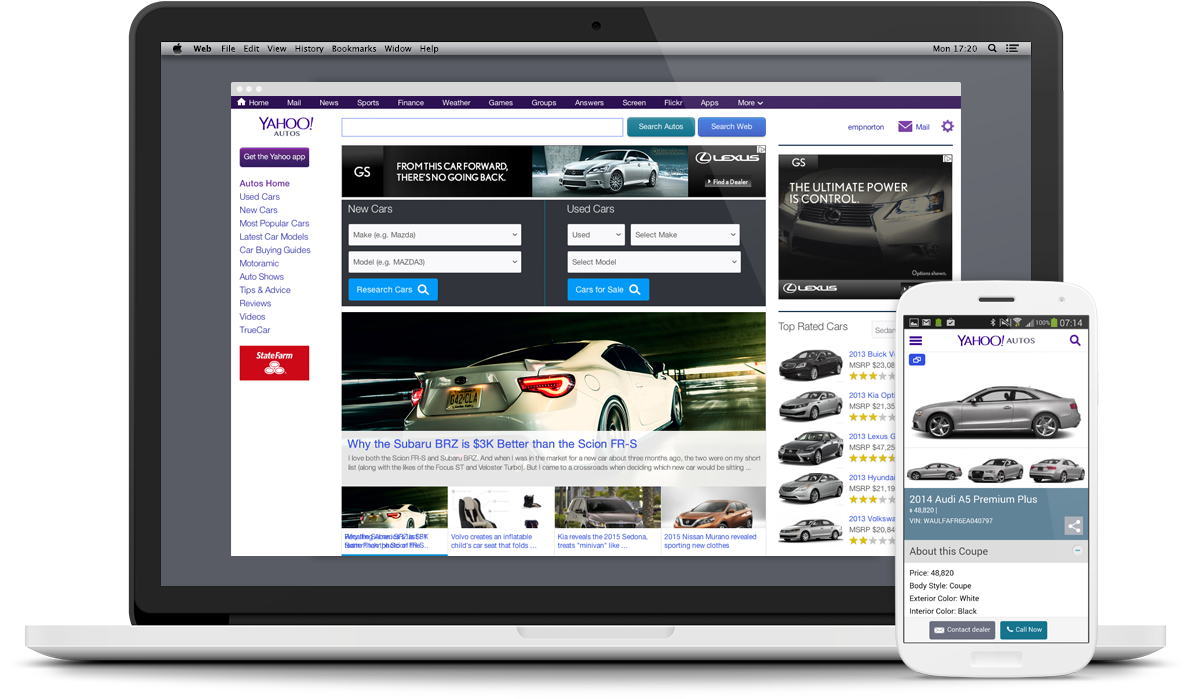
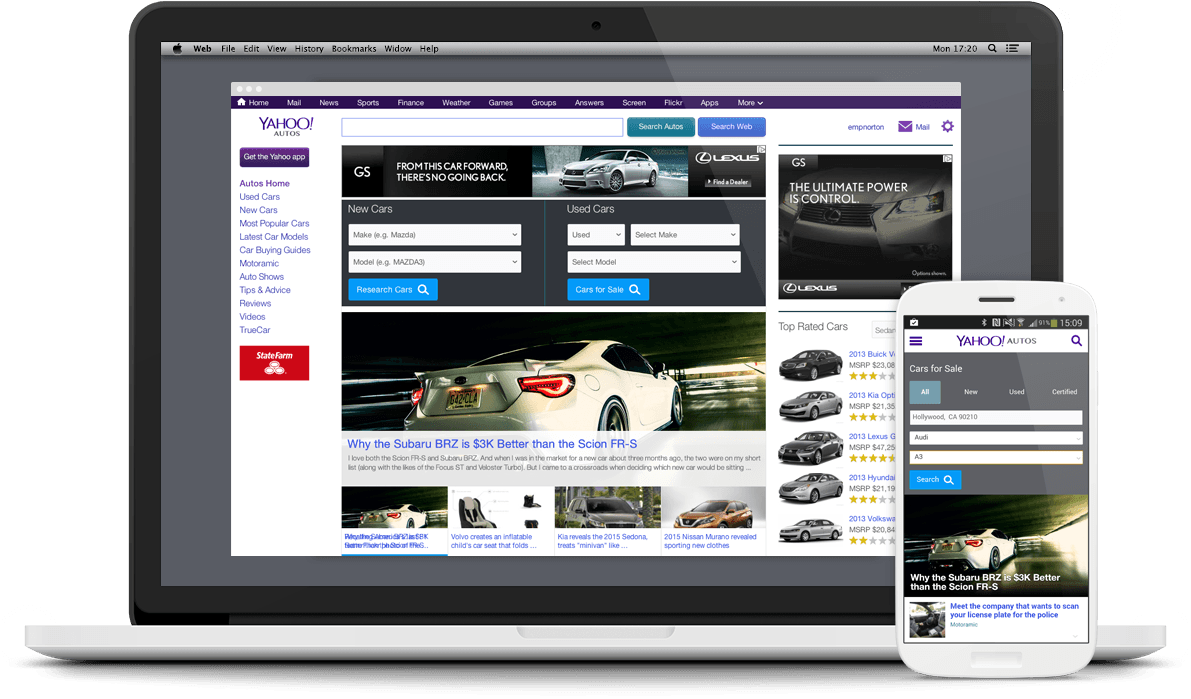
Autos Update
Tweaked the hero and added mobile screenshots

Changed region(s): [[0.7456, 0.4506, 0.932, 0.9313], [0.4349, 0.5408, 0.466, 0.5708], [0.3728, 0.5408, 0.4039, 0.5708]]

diff --git a/yahoo-autos.html b/yahoo-autos.html
@@ -84,7 +84,11 @@
 	<div class="row work"><!-- spacer -->
 		<div class="col-xs-12 spacer"></div>
 	</div>
-	
+	<div class="row tiles work" style="padding-bottom:20px; padding-left:10px; padding-right:10px;"><!-- work -->
+		<div class="col-xs-4 col-sm-4 col-md-4 col-lg-4 nopadding five"><img style="max-width:300px;" src="img/work-autos-1.png" alt="..."></div>
+		<div class="col-xs-4 col-sm-4 col-md-4 col-lg-4 nopadding five"><img style="max-width:300px;" src="img/work-autos-2.png" alt="..."></div>
+		<div class="col-xs-4 col-sm-4 col-md-4 col-lg-4 nopadding five"><img style="max-width:300px;" src="img/work-autos-3.png" alt="..."></div>
+	</div>
 
 	<div class="row"><!-- spacer -->
 		<div class="col-xs-12 spacer"></div>
